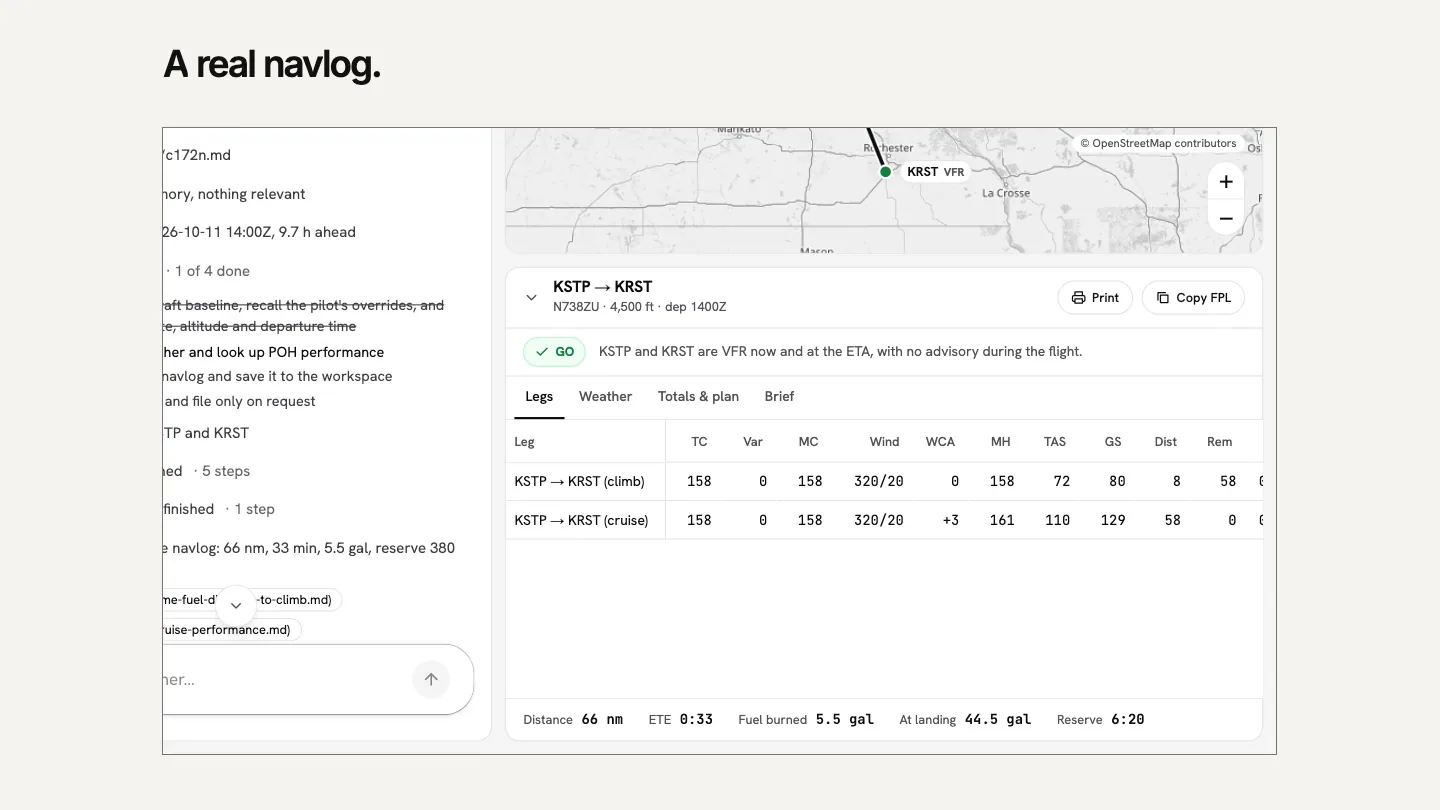
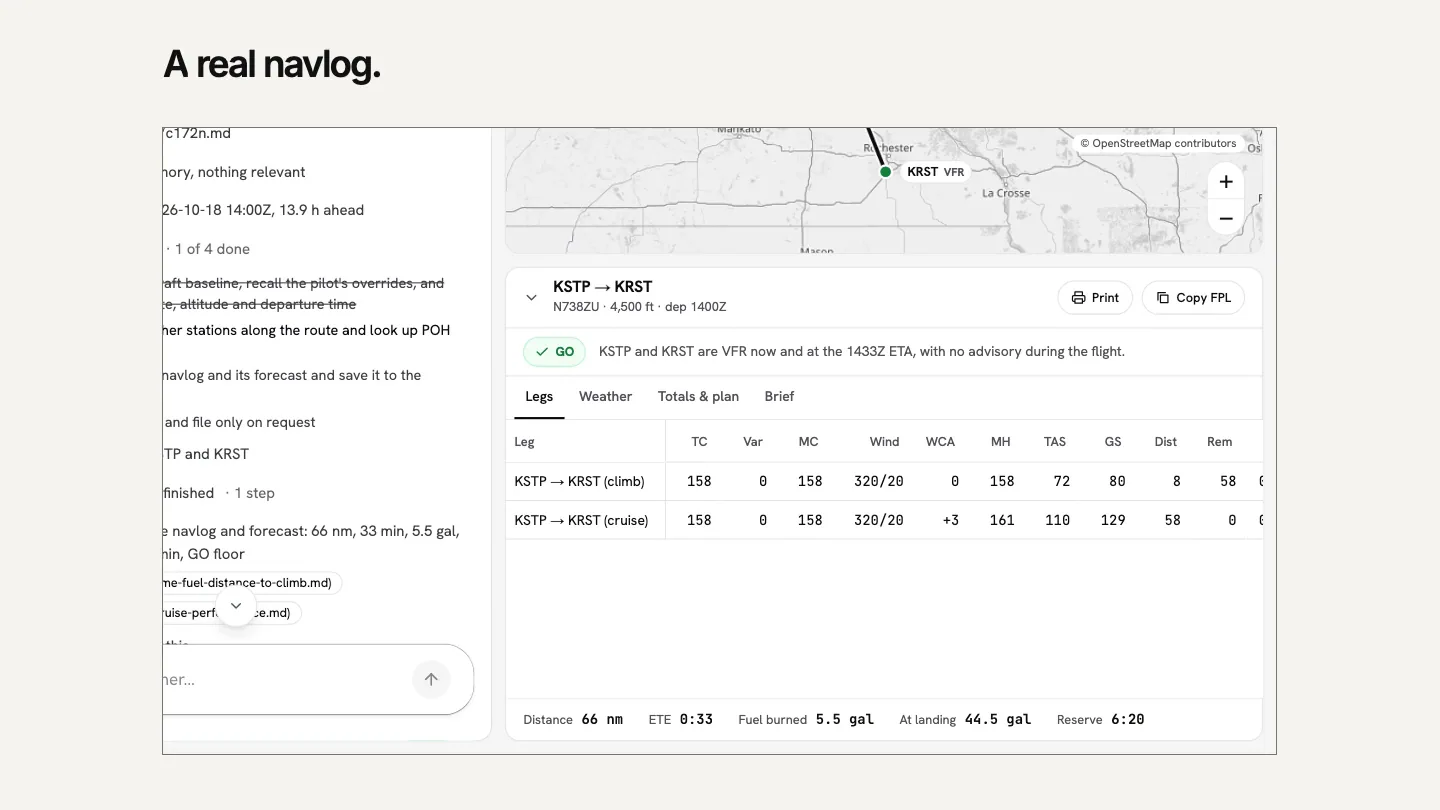
docs: re-record the navlog demo for forecast facts (3/3) (#1036)
* docs: describe the forecast-facts demo, not the weather subagent

The re-recorded navlog demo shows computeNavlog's forecast and verdict
rules where the weather subagent used to be. Update the transcript, the
recording guide, the README's video paragraph and the media caption
(MEDIA_CAPTIONS and demo-media.json) to match.

* web: refresh the demo poster from the forecast-facts capture

* docs: point the README video at the forecast-facts capture

Repins readme-contracts.mjs and the release-script pin digest.

---------

Changed region(s): [[0.0938, 0.1543, 0.3125, 0.8025], [0.5938, 0.4012, 0.7812, 0.463]]

diff --git a/docs/brand/demo/transcript.md b/docs/brand/demo/transcript.md
@@ -12,8 +12,9 @@ agent's tool calls and replies are fixed in advance
 (`docs/brand/demo/scenario.mjs`). A loopback stub of the aviationweather.gov
 API answers the weather tools with fixed data: KSTP and KRST VFR, clear, 10
 statute miles, wind 320 at 8, winds aloft 320 at 20, and no AIRMET or SIGMET.
-Every tool runs for real against those inputs; the navlog numbers are what the
-generated `computeNavlog` returns.
+Every tool runs for real against those inputs; the navlog numbers and the
+forecast (each leg's winds, each airport's flight category and the verdict
+floor) are what the generated `computeNavlog` returns.
 
 ## Navlog demo
 
@@ -35,36 +36,41 @@ composer when the beat begins; the capture filled it before recording. The
 capture clicks Send, and the Workbench sends “Plan a VFR flight KSTP to KRST at
 4500 ft, 1400Z. N738ZU has long-range tanks.” to the navlog agent. The turn
 runs and settles: it checks memory, resolves the 1400Z departure, makes a
-four-item plan, looks up both airports, hands the weather and the performance
-to two subagents, computes the navlog, suggests a memory, saves the navlog to
+four-item plan, looks up both airports, hands the performance to the
+performance subagent, computes the navlog and its forecast (the step reads
+“Computed the navlog and forecast: 66 nm, 33 min, 5.5 gal, reserve 380 min, GO
+floor”), suggests a memory, saves the navlog to
 `reports/KSTP-KRST.md`, and answers with a structured brief: a GO bottom line,
 the route, the key numbers, its assumptions and sources, and an offer to file
 the plan. The scripted run finishes in well under a second, and a settled turn
 folds its activity, so the capture opens the turn and its plan step and scrolls
 the checklist into view; the camera then eases to the plan's to-dos.
 
-### 3. Subagents brief the weather.
+### 3. Code computes the weather.
 
-Two code panes side by side. Left, the weather subagent,
-`server/src/app/navlog/subagents/weather/index.ts`, marked at
-`allow: ["getMetar", "getTaf", "getWindsAloft", "getAdvisories"],`. Right, the
-shared tool `server/src/tools/getMetar.ts`, marked at
-`flightCategory: record.fltCat ?? "UNKNOWN",`.
+Two code panes side by side. Left, the tool
+`server/src/tools/computeNavlog.ts`, marked at
+`const choice = chooseProduct(products, midMs, now)`, where each leg takes the
+winds-aloft forecast for the time it is flown. Right, the verdict rules,
+`server/src/lib/forecast/verdict.ts`, marked at the floor's NO-GO rule for an
+airport that is IFR or LIFR when the flight is there.
 
-### 4. Weather, briefed and judged.
+### 4. Weather, computed and judged.
 
-Back in the Workbench, the camera eases to the top right: the weather strip,
-whose verdict pill reads “GO” beside a chip for each airport, and below it the
-navlog sheet's go/no-go card, which reads “GO” and “KSTP and KRST are VFR now
-and at the ETA, with no advisory during the flight.” The weather subagent
-called `getMetar`, `getTaf`, `getWindsAloft` and `getAdvisories` against the
+Back in the Workbench, the camera eases to the top right: the route bar
+(KSTP, KRST, 4500 ft, departing 1400Z, 66 nm), the map with a “VFR” chip on
+each airport, and below it the navlog sheet, whose verdict summary reads “GO”
+and “KSTP and KRST are VFR now and at the 1433Z ETA, with no advisory during
+the flight.” Its Legs tab shows the 320/20 forecast wind on each leg.
+`computeNavlog` fetched the METARs, TAFs, winds aloft and advisories from the
 loopback stub described above, so the weather on screen is the stub's fixed
 data, not a live observation.
 
 ### 5. Tools do the math.
 
-Two code panes: `server/src/tools/computeNavlog.ts`, marked at its
-`computeNavlog(input)` call, beside `server/src/lib/navlog.ts`, marked at
+Two code panes: `server/src/tools/computeNavlog.ts`, marked at
+`let navlog = navlogOf({ ...base, winds: first }, clock)`, where the legs are
+timed again on the forecast winds, beside `server/src/lib/navlog.ts`, marked at
 `const tri = solveWindTriangle({`.
 
 ### 6. A real navlog.
@@ -96,10 +102,11 @@ The memory declaration, `server/src/app/navlog/memory.ts`, marked at
 
 ### 10. Reload. Still there.
 
-The camera eases to the memory panel under the dock's header (“Memory · 1”).
-It lists the memory the planner suggested during the first turn, “N738ZU has
-long-range tanks: 50 gal usable.”, with Approve and Delete beside it, waiting
-for the pilot; the run does not store it on its own. The camera pulls
+The capture opens memory mode from the sidebar's Memory toggle, and the
+camera eases to the top of the Workbench, where the memory column
+(“Memory · 1”) lists the memory the planner suggested during the first turn,
+“N738ZU has long-range tanks: 50 gal usable.”, waiting for the pilot to approve
+or delete it; the run does not store it on its own. The camera pulls
 back and the browser frame reloads: the capture navigates the Workbench's frame
 to its own URL, as a browser reload would. It opens the thread list and selects
 the same thread, and both turns come back from the server checkpoint: the two

diff --git a/docs/brand/recording-guide.md b/docs/brand/recording-guide.md
@@ -70,11 +70,11 @@ capture then plays the twelve beats of the **storyboard**
 (`beat-00-title` … `beat-11-close`):
 
 - a title card, then code beats that show real files from the generated
-  workspace (the route, the weather subagent and `getMetar`, `computeNavlog`
-  and the wind triangle, the approval line, the memory declaration), each with
-  its focal line marked;
+  workspace (the route, `computeNavlog` choosing each leg's forecast and the
+  verdict floor rule, `computeNavlog` and the wind triangle, the approval line,
+  the memory declaration), each with its focal line marked;
 - app beats in the real Workbench, each with evidence assertions: the plan's
-  to-dos after Send; the weather strip's and verdict card's “GO”; the route on
+  to-dos after Send; the navlog sheet's verdict summary “GO”; the route on
   the map and 66 nm on the navlog sheet; the filing request, whose approval
   card must offer Allow once and Deny and no Always allow, and the capture's
   click on **Allow once**; the suggested memory; and a frame reload that

diff --git a/README.md b/README.md
@@ -32,10 +32,10 @@ and approval around LangGraph.js. Keep your application code in TypeScript.
 npm create b4-app@latest my-agent
 ```
 
-https://github.com/user-attachments/assets/4c5b2e99-a3ca-45a7-8cdb-a133e177424f
+https://github.com/user-attachments/assets/05193a61-b5eb-4b8e-8d6c-1b09044f6aaf
 
-The 50-second demo shows one agent file, weather and performance subagents, a
-computed navlog, approval-gated filing, memory, and a conversation restored
+The 50-second demo shows one agent file, a navlog and its weather forecast
+computed in code, approval-gated filing, memory, and a conversation restored
 after a reload. Model turns are scripted and the weather API is stubbed, so the
 video rebuilds offline. Build the same app with
 `npm create b4-app@latest my-navlog -- --template navlog`.
